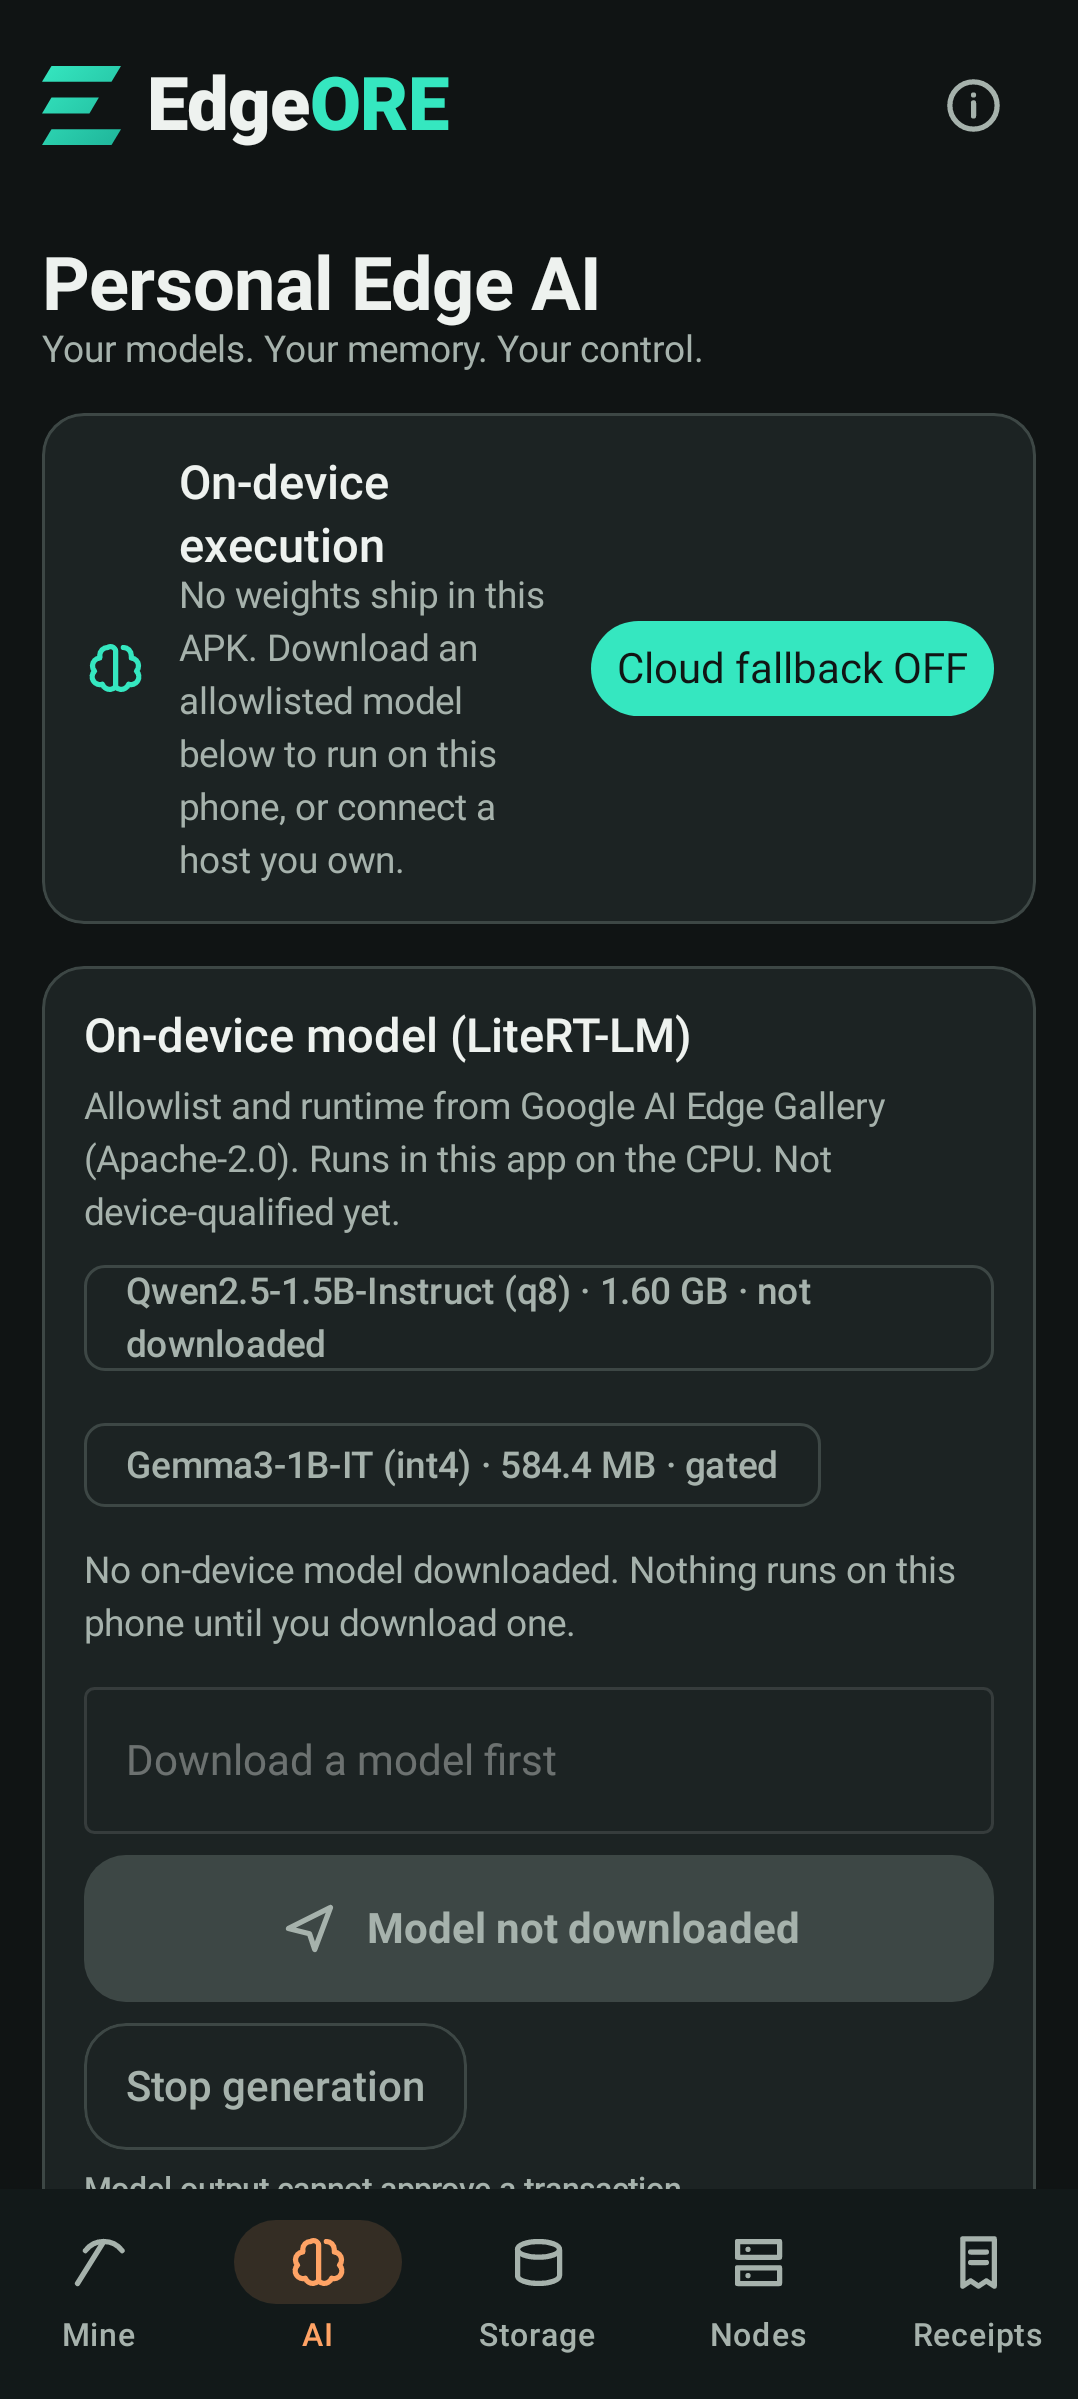
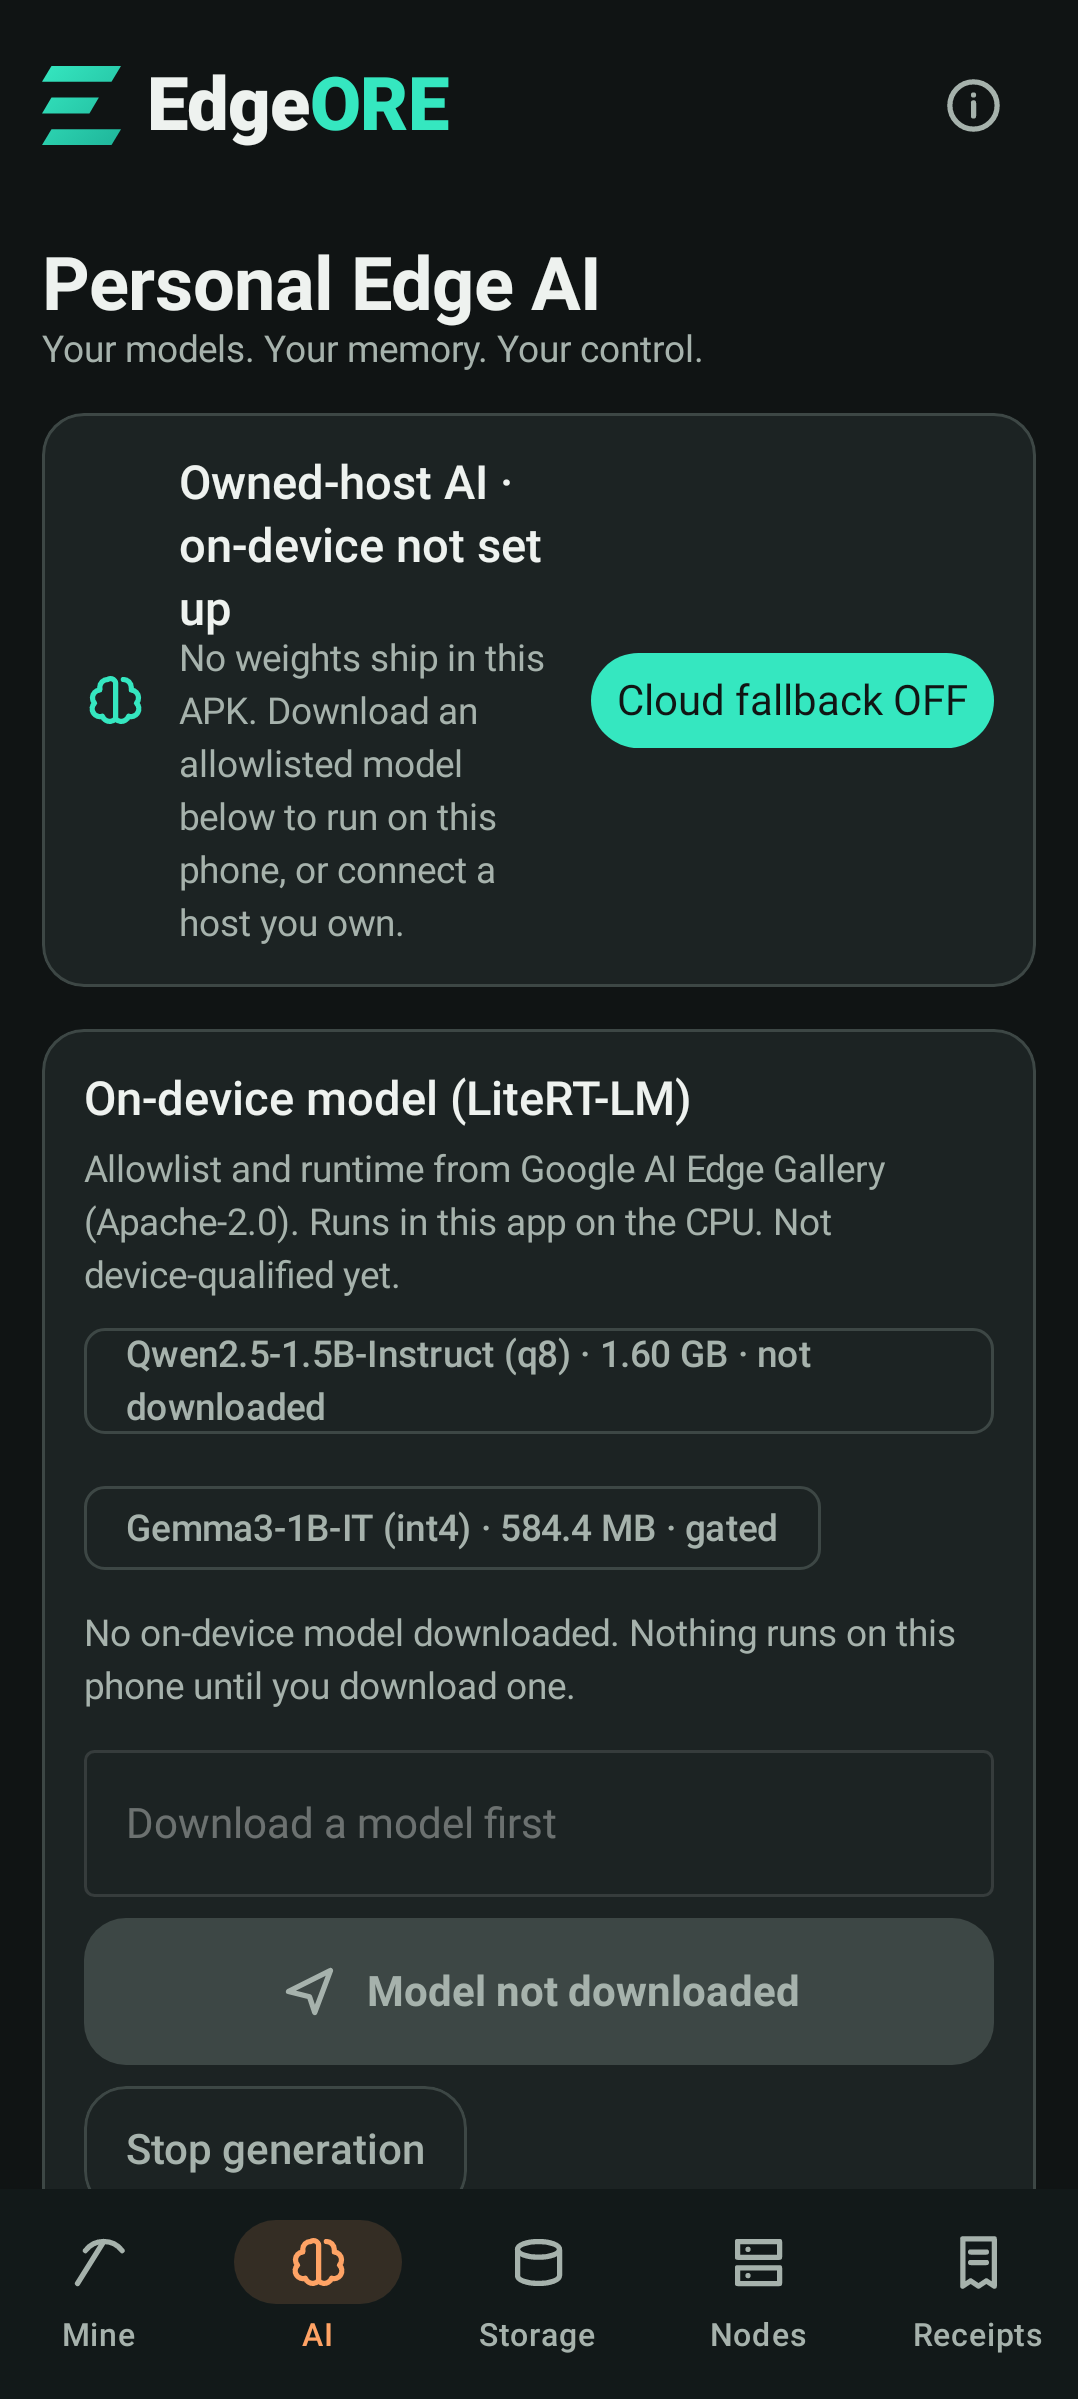
AI page: execution title names what can run now instead of 'On-device execution' (backlog H5)
ExecutionLabel.title: 'Owned-host AI · on-device not set up' with no model on the phone,
'On-device model downloaded, not loaded', 'On-device model loaded'. None claims a generation ran.
Test: OnDeviceAiTest.executionTitleNamesWhatCanActuallyRun. Re-recorded 02-ai.png and
full/02-ai-full.png (intentional title change).

Changed region(s): [[0.0306, 0.1851, 0.9184, 0.9254], [0.551, 0.2468, 0.9184, 0.3393], [0.949, 0.3702, 0.9796, 0.401]]

diff --git a/app/src/main/java/com/edgeore/app/ui/screens/AiScreen.kt b/app/src/main/java/com/edgeore/app/ui/screens/AiScreen.kt
@@ -1,5 +1,6 @@
 package com.edgeore.app.ui.screens
 
+import com.edgeore.app.ai.ondevice.ExecutionLabel
 import com.edgeore.app.ui.components.EffectNote
 import com.edgeore.app.settings.Control
 import androidx.activity.compose.rememberLauncherForActivityResult
@@ -74,7 +75,7 @@ fun AiScreen(vm: EdgeOreViewModel) {
         Row(verticalAlignment = Alignment.CenterVertically, horizontalArrangement = Arrangement.spacedBy(12.dp)) {
             Icon(EdgeIcons.Ai, contentDescription = null, tint = EdgeColors.mint)
             Column(Modifier.weight(1f)) {
-                Text("On-device execution", style = MaterialTheme.typography.titleMedium)
+                Text(ExecutionLabel.title(od.downloaded, od.loadedId), style = MaterialTheme.typography.titleMedium)
                 Text("No weights ship in this APK. Download an allowlisted model below to run on this phone, or connect a host you own.", color = EdgeColors.textMuted, style = MaterialTheme.typography.bodyMedium)
             }
             Text("Cloud fallback OFF", color = EdgeColors.onAction, modifier = Modifier.background(EdgeColors.mint, RoundedCornerShape(20.dp)).padding(horizontal = 10.dp, vertical = 6.dp))

diff --git a/app/src/test/java/com/edgeore/app/OnDeviceAiTest.kt b/app/src/test/java/com/edgeore/app/OnDeviceAiTest.kt
@@ -206,4 +206,12 @@ class OnDeviceAiTest {
         assertEquals(listOf("hi"), c.state.value.messages.map { it.text })
         assertEquals(OnDevicePhase.IDLE, c.state.value.phase)
     }
+
+    // H5: the AI card must not say "On-device execution" while no model is on the phone.
+    @org.junit.Test fun executionTitleNamesWhatCanActuallyRun() {
+        org.junit.Assert.assertEquals("Owned-host AI · on-device not set up", com.edgeore.app.ai.ondevice.ExecutionLabel.title(emptySet(), null))
+        org.junit.Assert.assertEquals("On-device model downloaded, not loaded", com.edgeore.app.ai.ondevice.ExecutionLabel.title(setOf("qwen"), null))
+        org.junit.Assert.assertEquals("On-device model loaded", com.edgeore.app.ai.ondevice.ExecutionLabel.title(setOf("qwen"), "qwen"))
+        org.junit.Assert.assertFalse(com.edgeore.app.ai.ondevice.ExecutionLabel.title(emptySet(), null).contains("On-device execution"))
+    }
 }

diff --git a/app/src/main/java/com/edgeore/app/ai/ondevice/ExecutionLabel.kt b/app/src/main/java/com/edgeore/app/ai/ondevice/ExecutionLabel.kt
@@ -1,0 +1,14 @@
+package com.edgeore.app.ai.ondevice
+
+/**
+ * Title of the AI page's execution card (hardening backlog H5). It names what can actually run right now:
+ * "On-device" appears only once a model file is on this phone, and "loaded" only once the runtime opened it.
+ * Neither title claims that a generation has run.
+ */
+object ExecutionLabel {
+    fun title(downloaded: Set<String>, loadedId: String?): String = when {
+        loadedId != null -> "On-device model loaded"
+        downloaded.isNotEmpty() -> "On-device model downloaded, not loaded"
+        else -> "Owned-host AI · on-device not set up"
+    }
+}
